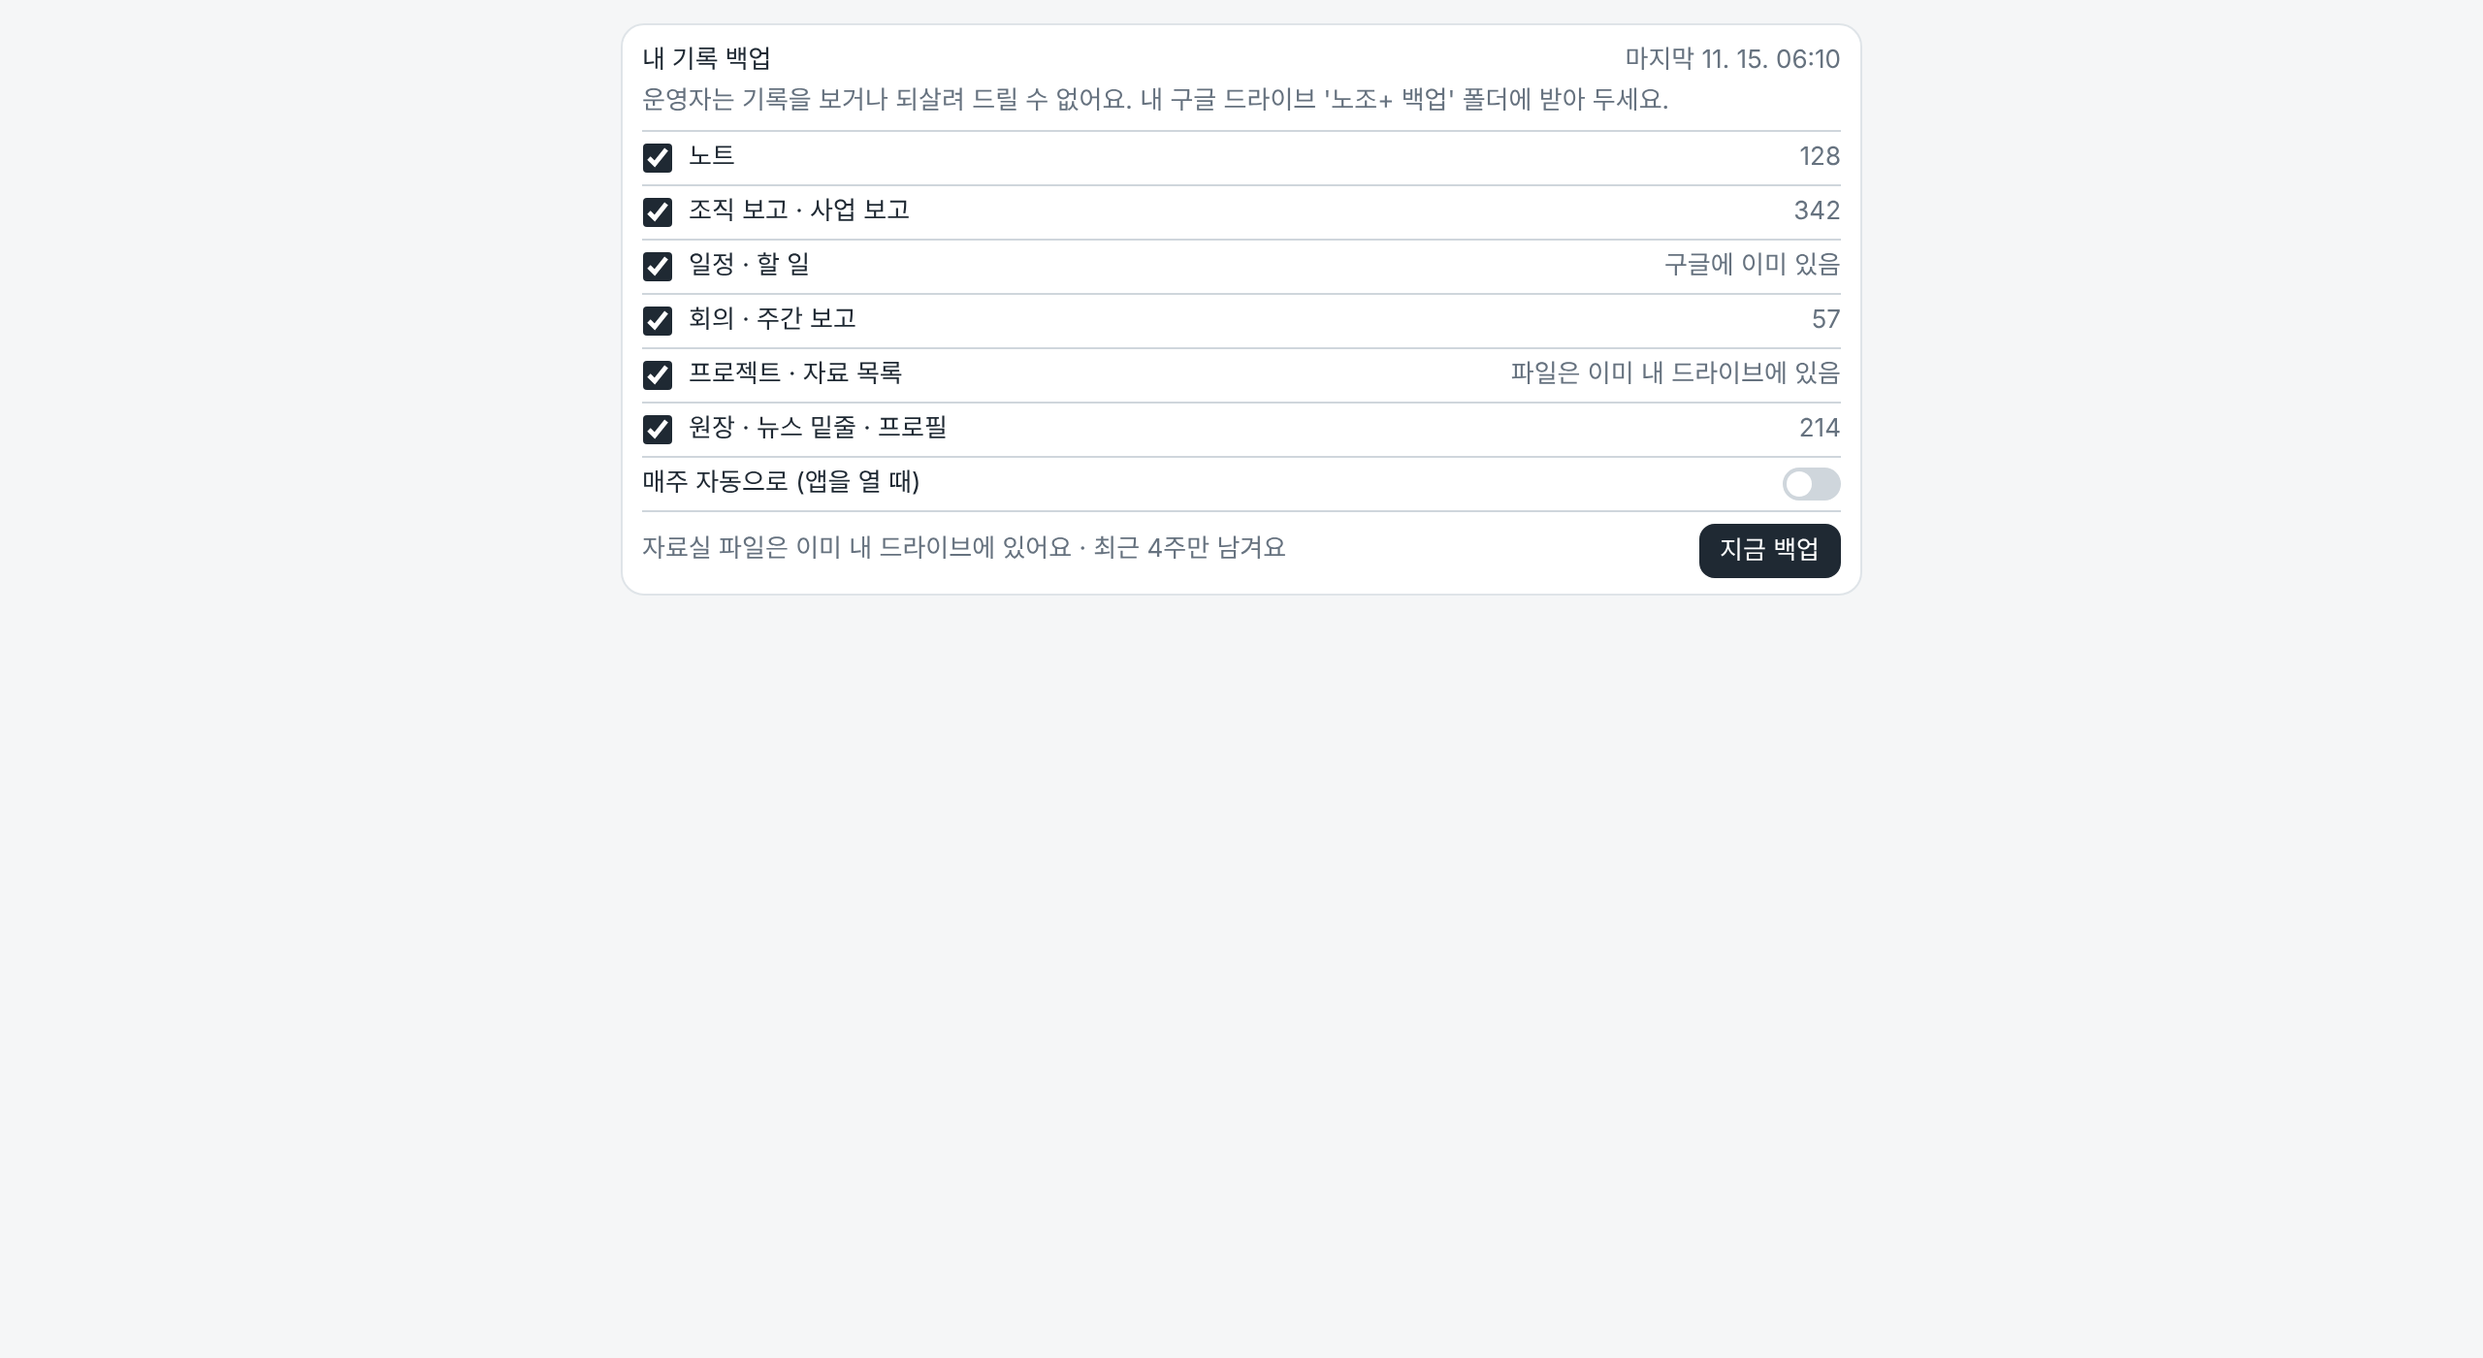
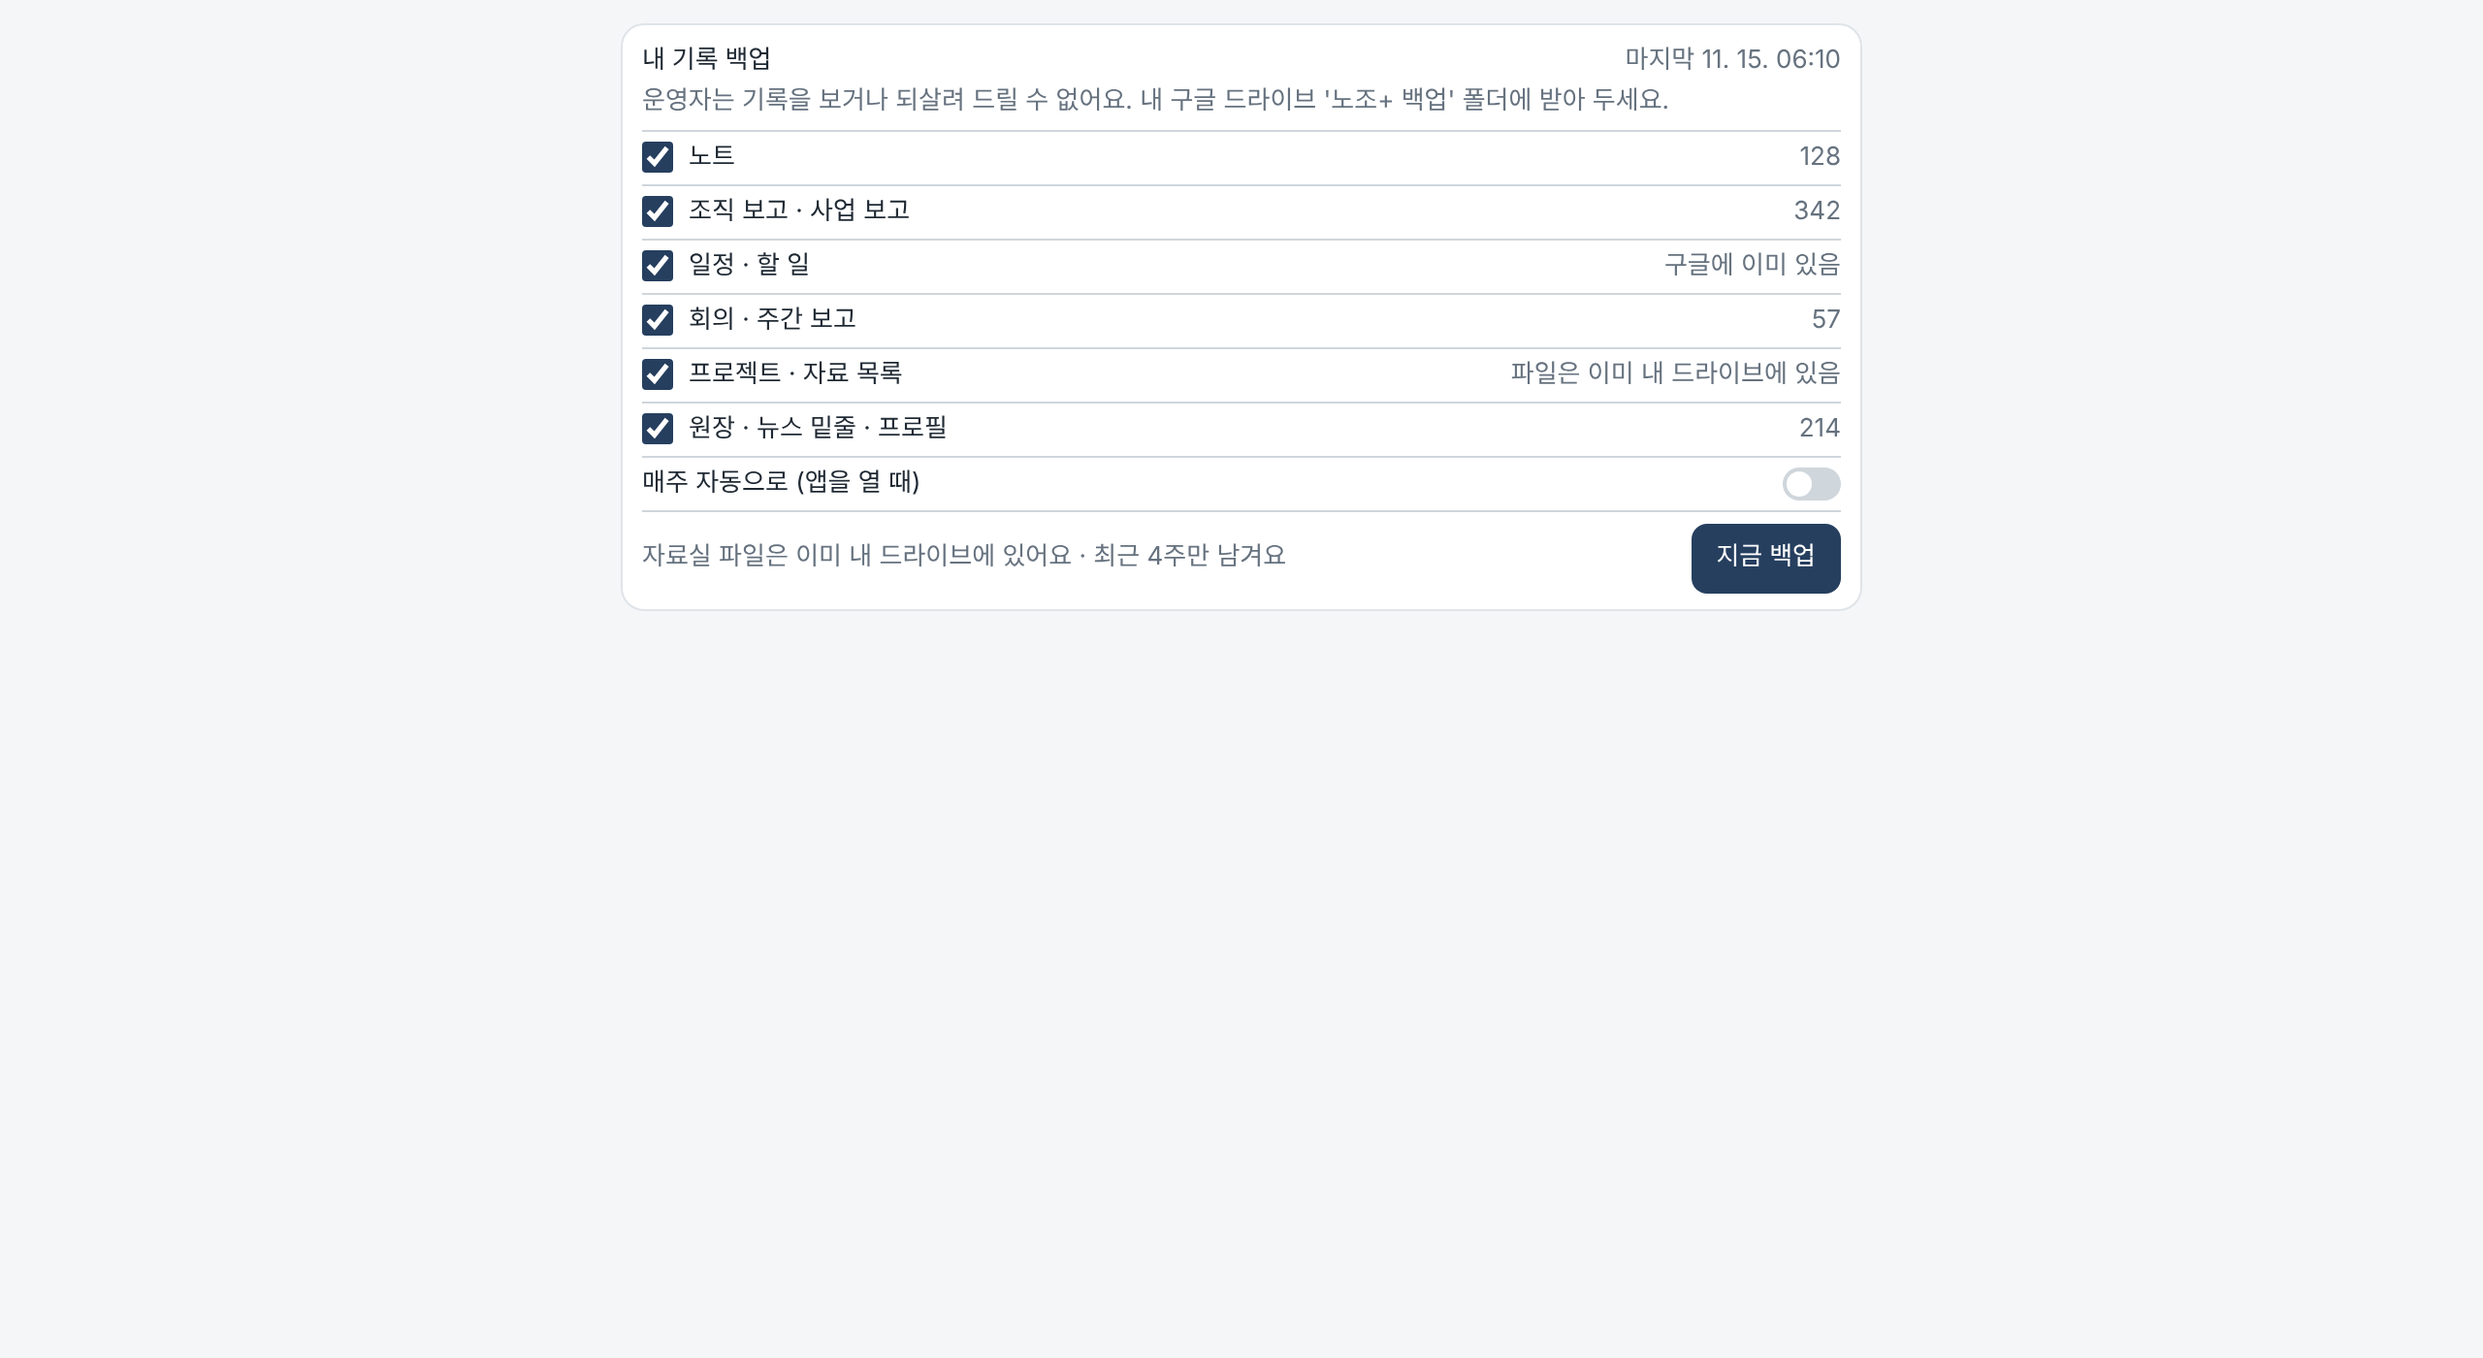
PRIVACY-백업안내: CI 맞춤 — 상태는 GET, 공용 버튼·기다림 부품, 격리 표(가족·통화·텔레그램 정리)는 빼고 결정으로 넘김, 함수 분류 등록
Claude-Session: https://claude.ai/code/session_01QdB5NP99FSg4dC1eRUCrLp

Changed region(s): [[0.25, 0.3993, 0.5312, 0.43], [0.25, 0.0921, 0.2812, 0.3379], [0.6562, 0.3686, 0.75, 0.4607]]

diff --git a/app/record-backup.js b/app/record-backup.js
@@ -1,4 +1,4 @@
-// PRIVACY-백업안내(S66-01, 시안 docs/design/mockups/backup-export.html, #2677 명진 확정 11/15·11/16): '내 기록 백업'의 화면 주인 하나.
+// PRIVACY-백업안내(S66-01, 시안 docs/design/mockups/backup-export.html, PR 2677 명진 확정 11/15·11/16): '내 기록 백업'의 화면 주인 하나.
 // ① 내 프로필 '내 기록 백업' 칸(mountRecordBackup): 종류별 체크 → [지금 백업], '매주 자동으로' 스위치(기본 꺼짐).
 // ② 백업이 끝나면 한 줄 알림: 칸이 열려 있으면 칸 안에, 자동 백업이면 화면 맨 위 알림 줄(notice-bar.js)에.
 // ③ 가입 직후 한 번만 띄우는 안내(startRecordBackup): 맨 위 알림 줄 [자동 백업 켜기] [나중에]. 누르면 다시 띄우지 않는다.
@@ -8,6 +8,7 @@
 import {viewPrefs} from './view-prefs.js';
 import {putNotice, removeNotice} from './notice-bar.js';
 import {formatSeoulTime} from './meeting-time.js';
+import {waitHtml, failHtml} from './wait-state.js';
 
 const ENDPOINT = '/functions/v1/record-backup';
 const AUTO_EVERY_DAYS = 7, START_DELAY_MS = 120000, INTRO_KEY = 'record-backup-intro', DONE_KEY = 'record-backup-done';
@@ -28,7 +29,10 @@ export function autoDue(auto, lastAt, now) {
 export const doneText = r => `내 드라이브 › 노조+ 백업 › ${r.date} 에 ${Number(r.count).toLocaleString('ko-KR')}건을 받았어요.`;
 const when = at => formatSeoulTime(at, {month: 'numeric', day: 'numeric', hour: '2-digit', minute: '2-digit'});
 
-const call = (rt, action, body) => rt.api(`${ENDPOINT}?action=${action}`, {method: 'POST', body: body ?? {}, singleFlight: false, refreshSession: false, timeoutMs: action === 'run' ? 150000 : 60000});
+// 상태 읽기는 GET(화면을 열 때 쓰기 요청을 보내지 않음), 백업만 POST.
+const call = (rt, action, body) => action === 'run'
+  ? rt.api(`${ENDPOINT}?action=run`, {method: 'POST', body, singleFlight: false, refreshSession: false, timeoutMs: 150000})
+  : rt.api(`${ENDPOINT}?action=${action}`, {singleFlight: false, refreshSession: false, timeoutMs: 60000});
 const prefs = () => backupPrefs(viewPrefs.get('record_backup'));
 const savePrefs = next => viewPrefs.set('record_backup', next, {rejectable: true});
 
@@ -42,7 +46,7 @@ function runBackup(rt, kinds) {
 function doneLine(r) {
   const el = document.createElement('aside');
   el.className = 'kptu-notice-line'; el.dataset.notice = DONE_KEY; el.setAttribute('aria-label', '백업 끝');
-  el.innerHTML = `<span role="status">${esc(doneText(r))}</span><a class="kptu-notice-line-action" href="${esc(r.folder_url)}" target="_blank" rel="noopener">드라이브에서 보기</a><button type="button" class="kptu-notice-line-close" aria-label="닫기">✕</button>`;
+  el.innerHTML = `<span role="status">${esc(doneText(r))}</span><a class="kptu-notice-line-action" href="${esc(r.folder_url)}" target="_blank" rel="noopener">드라이브에서 보기</a><button type="button" class="kptu-notice-line-close icon-btn" aria-label="닫기">✕</button>`;
   el.querySelector('button').onclick = () => removeNotice(DONE_KEY);
   putNotice(DONE_KEY, {priority: 70, element: el});
 }
@@ -52,14 +56,14 @@ export function mountRecordBackup(host, {rt = window.KPTURuntime} = {}) {
   let status = null, failed = false, busy = false, picked = null, result = null, error = '';
   function render() {
     const p = prefs();
-    if (!status) { host.innerHTML = `<div class="rb-head"><h3>내 기록 백업</h3></div><p class="rb-note">${failed ? '백업 상태를 읽지 못했어요.' : '불러오는 중…'}</p>`; return; }
+    if (!status) { host.innerHTML = `<div class="rb-head"><h3>내 기록 백업</h3></div>${failed ? failHtml({retry: 'data-rb-retry'}) : waitHtml({rows: 4})}`; return; }
     const kinds = status.kinds.filter(k => k.key !== 'personal' || k.count > 0);
     picked ??= new Set(kinds.map(k => k.key));
     const rows = kinds.map(k => `<label class="rb-row"><input type="checkbox" data-rb-kind="${esc(k.key)}"${picked.has(k.key) ? ' checked' : ''}${busy ? ' disabled' : ''}><span>${esc(k.label)}</span><span class="rb-r">${k.note ? esc(k.note) : Number(k.count).toLocaleString('ko-KR')}</span></label>`).join('');
     const last = status.last_at ? `마지막 ${esc(when(status.last_at))}` : '아직 없음';
     const foot = status.connected
-      ? `<button type="button" class="rb-btn rb-primary" data-rb-run${busy || !picked.size ? ' disabled' : ''}>${busy ? '백업 중…' : '지금 백업'}</button>`
-      : `<span class="rb-warn">구글 드라이브를 먼저 연결해 주세요</span><button type="button" class="rb-btn" data-rb-connect>드라이브 연결</button>`;
+      ? `<button type="button" class="primary" data-rb-run${busy || !picked.size ? ' disabled' : ''}>${busy ? '백업 중…' : '지금 백업'}</button>`
+      : `<span class="rb-warn">구글 드라이브를 먼저 연결해 주세요</span><button type="button" class="secondary" data-rb-connect>드라이브 연결</button>`;
     const done = result ? `<div class="rb-done" role="status">${esc(doneText(result))} <a class="rb-btn" href="${esc(result.folder_url)}" target="_blank" rel="noopener">드라이브에서 보기</a></div>` : '';
     host.innerHTML = `<div class="rb-head"><h3>내 기록 백업</h3><span class="rb-last">${last}</span></div>
 <p class="rb-note">운영자는 기록을 보거나 되살려 드릴 수 없어요. 내 구글 드라이브 '노조+ 백업' 폴더에 받아 두세요.</p>${done}
@@ -72,6 +76,7 @@ ${error ? `<p class="rb-error" role="alert">${esc(error)}</p>` : ''}<div class="
     if (e.target.matches?.('[data-rb-auto]')) { savePrefs({...prefs(), auto: e.target.checked, intro: true}); removeNotice(INTRO_KEY); }
   });
   host.addEventListener('click', async e => {
+    if (e.target.closest?.('[data-rb-retry]')) { void load(); return; }
     if (e.target.closest?.('[data-rb-connect]')) { window.KPTURouter?.go?.('library', {source: 'delegated'}); return; }
     if (!e.target.closest?.('[data-rb-run]') || busy) return;
     busy = true; error = ''; result = null; render();
@@ -98,7 +103,7 @@ export function startRecordBackup({rt = window.KPTURuntime, now = () => Date.now
     introShown = true;
     const el = document.createElement('aside');
     el.className = 'kptu-notice-line'; el.dataset.notice = INTRO_KEY; el.setAttribute('aria-label', '내 기록 백업 안내');
-    el.innerHTML = `<span role="status">노조+ 운영자는 누가 가입했는지만 보고, 기록한 내용은 보지 않아요. 그래서 되살려 드릴 수도 없으니 <b>내 기록 백업</b>을 켜 두세요.</span><button type="button" class="kptu-notice-line-action" data-rb-on>자동 백업 켜기</button><button type="button" class="kptu-notice-line-action" data-rb-later>나중에</button>`;
+    el.innerHTML = `<span role="status">노조+ 운영자는 누가 가입했는지만 보고, 기록한 내용은 보지 않아요. 그래서 되살려 드릴 수도 없으니 <b>내 기록 백업</b>을 켜 두세요.</span><button type="button" class="kptu-notice-line-action ghost" data-rb-on>자동 백업 켜기</button><button type="button" class="kptu-notice-line-action ghost" data-rb-later>나중에</button>`;
     el.querySelector('[data-rb-on]').onclick = () => { savePrefs({auto: true, intro: true}); removeNotice(INTRO_KEY); };
     el.querySelector('[data-rb-later]').onclick = () => { savePrefs({...prefs(), intro: true}); removeNotice(INTRO_KEY); };
     putNotice(INTRO_KEY, {priority: 60, element: el});

diff --git a/app/profile-settings.css b/app/profile-settings.css
@@ -81,14 +81,13 @@
 /* HOME-연결안내한줄아래(S62-03c): 보고 캘린더 연결 안내도 홈과 같은 모양 — 안내 한 줄, 그 아래 줄 왼쪽에 [구글 캘린더 연결] */
 #profileView [data-ps-report-cal="unconnected"] .ps-report-note{display:flex;flex-direction:column;align-items:flex-start;gap:4px}
 #profileView .ps-report-actions{display:flex;justify-content:flex-end;margin-top:6px}
-/* PRIVACY-백업안내(S66-01, 시안 backup-export.html): '내 기록 백업' 칸. 촘촘한 한 줄 목록, 작은 버튼, 톤다운 색. */
+/* PRIVACY-백업안내(S66-01, 시안 backup-export.html): '내 기록 백업' 칸. 촘촘한 한 줄 목록, 톤다운 색. 버튼은 공용 6가지(primary·secondary), .rb-btn은 '드라이브에서 보기' 글 링크만. */
 #psBackupPanel .rb-head{display:flex;align-items:baseline;gap:8px;margin-bottom:2px}
 #psBackupPanel .rb-head h3{margin:0}
 #psBackupPanel .rb-last{margin-left:auto;font-size:var(--ds-compact-text,12px);color:var(--kptu-muted)}
 #psBackupPanel .rb-note,#psBackupPanel .rb-s{font-size:var(--ds-compact-text,12px);color:var(--kptu-muted);line-height:1.5;margin:2px 0 4px}
 #psBackupPanel .rb-list{border-top:var(--ds-line-width,1px) solid var(--ds-line)}
 #profileView #psBackupPanel .rb-row{display:flex;align-items:center;gap:8px;min-height:var(--ds-compact-height-sm,28px);margin:0;padding:3px 0;border-bottom:var(--ds-line-width,1px) solid var(--ds-line);font-size:13px;font-weight:var(--ds-weight-regular,400);color:var(--kptu-ink);cursor:pointer}
-#psBackupPanel .rb-row input[type=checkbox]{margin:0;width:15px;height:15px;accent-color:var(--ds-select-ink,var(--kptu-accent))}
 #psBackupPanel .rb-r{font-weight:var(--ds-weight-regular,400);margin-left:auto;font-size:var(--ds-compact-text,12px);color:var(--kptu-muted)}
 #profileView #psBackupPanel input.rb-switch{margin:0 0 0 auto;padding:0;border:0;min-height:0;box-shadow:none;-webkit-appearance:none;appearance:none;width:30px;height:17px;border-radius:9px;background:var(--ds-line);position:relative;cursor:pointer;flex:none}
 #profileView #psBackupPanel input.rb-switch::after{content:"";position:absolute;left:2px;top:2px;width:13px;height:13px;border-radius:50%;background:var(--kptu-surface);transition:left .15s}
@@ -98,8 +97,6 @@
 #psBackupPanel .rb-foot{display:flex;align-items:center;gap:6px;justify-content:flex-end;padding-top:6px}
 #psBackupPanel .rb-foot .rb-s{margin:0 auto 0 0}
 #psBackupPanel .rb-btn{flex:none;white-space:nowrap;display:inline-flex;align-items:center;height:var(--ds-compact-height-sm,28px);padding:0 10px;font-size:var(--ds-compact-text,12px);border:var(--ds-line-width,1px) solid var(--ds-line);border-radius:var(--kptu-radius-md);background:var(--kptu-surface);color:var(--kptu-ink);text-decoration:none;cursor:pointer}
-#psBackupPanel .rb-primary{background:var(--ds-select-ink,var(--kptu-accent));border-color:var(--ds-select-ink,var(--kptu-accent));color:var(--kptu-surface)}
-#psBackupPanel .rb-btn:disabled{opacity:.5;cursor:default}
 #psBackupPanel .rb-done{margin:4px 0;padding:6px 8px;border-radius:var(--kptu-radius-md);background:var(--ds-select-bg);font-size:12.5px;line-height:1.6}
-#psBackupPanel .rb-warn,#psBackupPanel .rb-error{font-size:var(--ds-compact-text,12px);color:var(--kptu-danger,#a33)}
+#psBackupPanel .rb-warn,#psBackupPanel .rb-error{font-size:var(--ds-compact-text,12px);color:var(--kptu-danger)}
 #psBackupPanel .rb-error{margin:4px 0}

diff --git a/supabase/functions/record-backup/handler.ts b/supabase/functions/record-backup/handler.ts
@@ -8,7 +8,7 @@
 // - 그 사람이 owner인 작업공간이 정확히 하나일 때만 받는다(_shared/workspace-drive-token.ts callerOwnerWorkspace). 작업공간은 서버가 정한다.
 // - 드라이브는 그 작업공간의 연결만 쓴다(workspaceDriveToken). 다른 작업공간 연결·id=1 열쇠는 읽지 않는다.
 // 무엇을 읽나: 기록 표는 사용자 토큰 + anon 키로만 읽는다(기존 owner RLS 그대로, 서비스 역할로 기록을 읽지 않음). 표·조건은 model.mjs 목록뿐.
-// 입구: POST ?action=status → {connected, last_at, last_count, kinds:[{key,label,note,count}]} (개수만)
+// 입구: GET  ?action=status → {connected, last_at, last_count, kinds:[{key,label,note,count}]} (개수만)
 //       POST ?action=run   몸통 {kinds:[...]} → {date, count, folder_url}
 // 같은 날 다시 하면 그날 폴더를 휴지통으로 보내고 새로 만든다. 최근 4주(날짜 폴더 4개)만 남기고 오래된 폴더는 드라이브 휴지통으로(영구 삭제 안 함).
 // 로그·응답: 코드와 숫자만. 기록 내용·제목·파일 ID를 로그에 싣지 않는다.
@@ -34,7 +34,7 @@ const DOC_MIME = "application/vnd.google-apps.document";
 const PAGE = 500;
 const cors = {
   "Access-Control-Allow-Headers": "authorization, x-client-info, apikey, content-type",
-  "Access-Control-Allow-Methods": "POST, OPTIONS",
+  "Access-Control-Allow-Methods": "GET, POST, OPTIONS",
 };
 const json = (body: unknown, status = 200) => new Response(JSON.stringify(body), {
   status, headers: { ...cors, "Content-Type": "application/json; charset=utf-8", "Cache-Control": "no-store" },
@@ -233,9 +233,9 @@ export function createRecordBackupHandler(deps: BackupDeps) {
     if (req.method === "OPTIONS") return new Response("ok", { headers: cors });
     const action = new URL(req.url).searchParams.get("action") || "";
     try {
-      if (req.method !== "POST") throw new Fail(405, "METHOD_NOT_ALLOWED");
-      if (action === "status") return await status(req);
-      if (action === "run") return await run(req);
+      // 상태는 읽기만(GET), 백업은 POST. 다른 짝은 405.
+      if (action === "status") { if (req.method !== "GET") throw new Fail(405, "METHOD_NOT_ALLOWED"); return await status(req); }
+      if (action === "run") { if (req.method !== "POST") throw new Fail(405, "METHOD_NOT_ALLOWED"); return await run(req); }
       throw new Fail(400, "UNKNOWN_ACTION");
     } catch (e) {
       const f = e instanceof Fail ? e : new Fail(500, "INTERNAL_ERROR");
